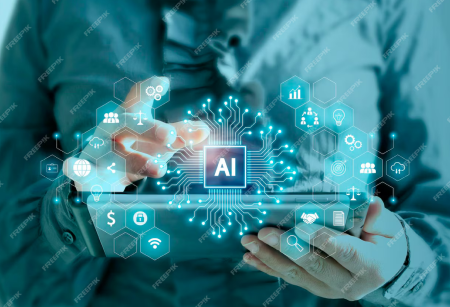
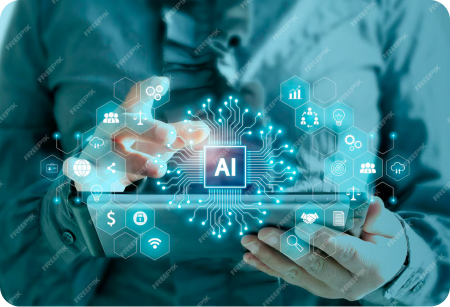
shivani changes

Changed region(s): [[0.0, 0.9381, 1.0, 1.0], [0.9644, 0.0, 1.0, 0.0586], [0.0, 0.0, 0.0311, 0.0586]]

diff --git a/src/components/homepage/BannerSection.jsx b/src/components/homepage/BannerSection.jsx
@@ -3,6 +3,15 @@ import image_1 from '../../assets/images/banner-images/banner-1.png'
 import image_2 from '../../assets/images/banner-images/banner-2.png'
 import image_3 from '../../assets/images/banner-images/banner-3.png'
 import image_4 from '../../assets/images/banner-images/banner-4.png'
+
+const images = [
+    { src: image_1, alt: 'Global business connections banner' },
+    { src: image_2, alt: 'Expand business globally' },
+  ];
+  const images_2 = [
+    { src: image_3, alt: 'Connecting with professionals worldwide' },
+    { src: image_4, alt: 'Unlock new opportunities' },
+  ];
 const HomeBanner = () => {
     
     return (
@@ -10,12 +19,17 @@ const HomeBanner = () => {
            <div className='container'>
             <div className="connect_banner">
               <div className="connect-banner-1">
-                <img src={image_1} alt="" />
-                <img src={image_2} alt="" />
-                <img src={image_3} alt="" />
-                <img src={image_4} alt="" />
-              </div>
-              <div className="connect-banner-2">
+              {images.map((image, index) => (
+              <img key={index} src={image.src} alt={image.alt} />
+            ))}
+                </div>
+                <div className="connect-banner-2">
+                {images_2.map((image, index) => (
+              <img key={index} src={image.src} alt={image.alt} />
+            ))}
+                </div>
+             
+              <div className="connect-banner-3">
                 <h3>Your Global Marketplace for Growth</h3>
                 <p>Expand your business across 40+ countries, 20+ Sectors and turn your network into your net worth. Connect with trusted buyers, sellers, and professionals worldwide to unlock new opportunities, scale your operations, and forge valuable partnerships.</p>
               <p>Join today and take your business to new heights with seamless global connections!</p>
@@ -28,6 +42,4 @@ const HomeBanner = () => {
 }
 
 export default HomeBanner; 
-
-
 

diff --git a/src/assets/css/style.css b/src/assets/css/style.css
@@ -36,41 +36,47 @@ p {
 
 .container{
 width:100%;
-padding: 0 100px;
-
+padding: 0 ;
 }
 /* banner css start */
 
-.connect_banner{
-    display:flex;
+.connect_banner {
+    display: flex;
     background-image: url('../images/banner-images/banner-bg.png');
-  background-position: center;
-  background-repeat: no-repeat;
+    background-position: center;
+    background-repeat: no-repeat;
+    gap: 20px;
+    padding: 20px;
+    border-radius: 20px;
 }
-
 
 .connect-banner-1 img{
    border-radius: 20px;
+   width: 100%;
+   
 }
 
-.connect-banner-1 {
-    width: 50%;
+.connect-banner-2 img{
+    border-radius: 20px;
+    width: 100%;
+ }
+ .connect-banner-1 {
+    display: flex;
+    gap: 20px;
+    flex-direction: column;
+    width: 24%;
+
 }
 .connect-banner-2 {
-    width: 50%;
+    display: flex;
+    gap: 20px;
+    flex-direction: column;
+    width: 24%;
 }
 
-.connect-banner-1 {
-    display: grid;
-  grid-template-columns: repeat(2, 1fr); /* Two equal-width columns */
-  grid-template-rows: 1fr 1fr; /* Two equal-height rows */
-  gap: 10px; /* Consistent gap between images */
-  height: 100%;
-  }
-  
-  .connect-banner-1 img {
-    width: 100%; /* Full width for each grid cell */
-    height: 100%; /* Full height for each grid cell */
-    object-fit: cover;
-  }
+.connect-banner-3{
+    width: 48%;
+   
+}
+
   

diff --git a/src/components/Footer.jsx b/src/components/Footer.jsx
@@ -12,7 +12,7 @@ const Header = () => {
   return (
     <div className="Footer">
       <div className="container">
-        <h3>home</h3>
+   
       </div>
     </div>
   );
